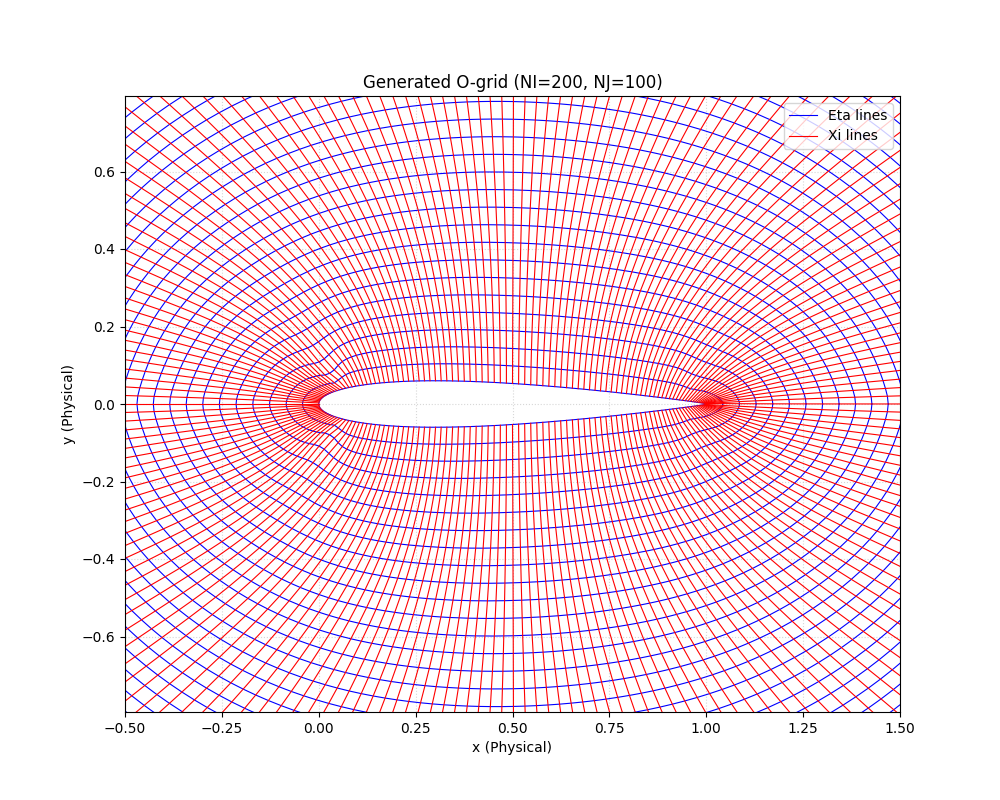
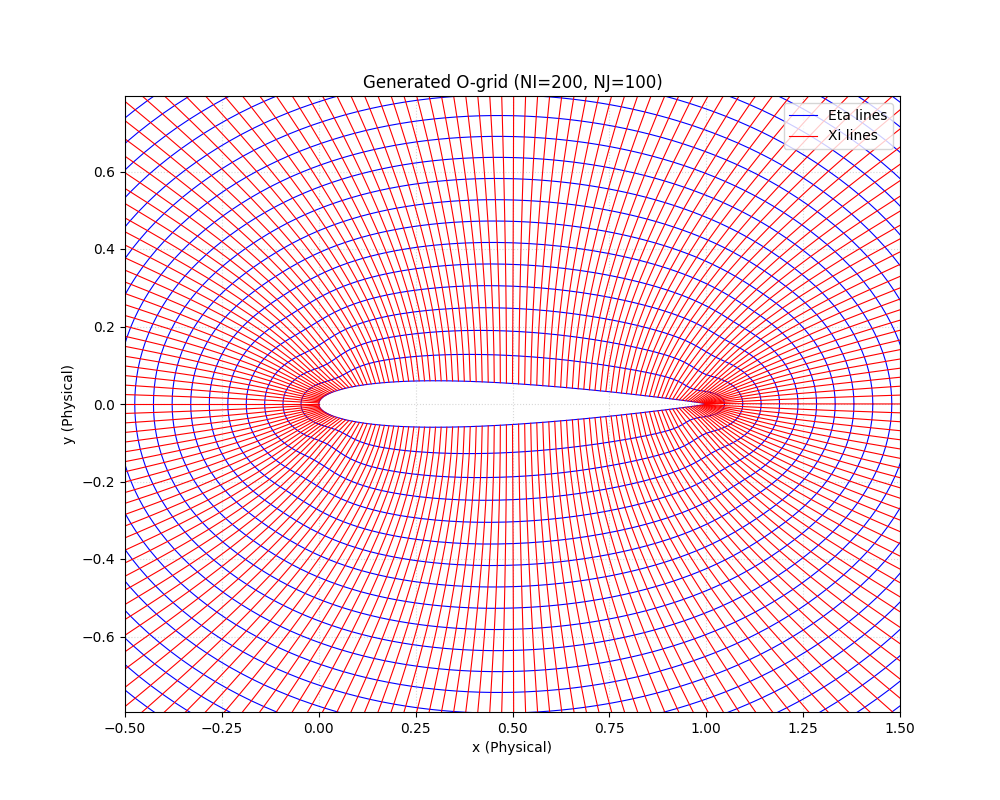
normal orthogonality prart done, tuning left.

Changed region(s): [[0.124, 0.125, 0.899, 0.9062]]

diff --git a/Mesh_generation.py b/Mesh_generation.py
@@ -60,6 +60,9 @@ class OGridLaplaceGenerator:
         self.xi_y = None
         self.eta_x = None
         self.eta_y = None
+        
+        self.nx = None
+        self.ny = None
         # For O-grids, xi represents angular-like coordinate
         # Common normalization ranges from 0 to almost 1 (or 2*pi)
         self.xi_comp = self.xi / NI
@@ -270,7 +273,8 @@ class OGridLaplaceGenerator:
         main_loop(x, y, x_xi, y_xi, x_eta, y_eta, J_jacobian)
     
     def solve_laplace_equations_with_source(self, max_iterations=10000, tolerance=1e-6,
-                                            alpha = 0.5, intn_lft=-150, intn_rgt=-150, rad_l=0.5, rad_r=0.5,
+                                            alpha = 0.5, intn_lft=-150, intn_rgt=-150, intn_norm=150,
+                                            rad_l=0.5, rad_r=0.5, rad_norm=0.5,
                                             let_p=True, let_q=True, intn_wall=-150, rad_wall=0.5, wall=True):
         """
         Solve Laplace equations with source term.
@@ -297,14 +301,14 @@ class OGridLaplaceGenerator:
         def source(x, y, center_x, center_y, intensity, decay_radius, left=True):
             source_field = np.zeros_like(x)
             r_sq_max = decay_radius ** 2
-            sigma = decay_radius / 5
+            sigma = decay_radius / 3
             for i in prange(NI):
                 for j in prange(NJ):
                     dx = x[i, j] - center_x
                     dy = y[i, j] - center_y
                     r_sq = dx**2 + dy**2
-                    if r_sq < r_sq_max:
-                        source_field[i, j] = intensity * np.exp(-r_sq / (2 * sigma**2)) * (r_sq / sigma ** 2)
+                    # if r_sq < r_sq_max:
+                    source_field[i, j] = intensity * np.exp(-r_sq / (2 * sigma**2)) # * (r_sq / sigma ** 2)
             
             dx_entire = x - center_x
             if left == True:
@@ -328,12 +332,84 @@ class OGridLaplaceGenerator:
                     dy = y[i, j] - y[i, 0]
                     dist_l = (x[i, j])**2 + y[i, j]**2
                     dist_r = (x[i, j] - 1)**2 + y[i, j]**2
-                    if ((dist_l > rad_l**2) and (dist_r > rad_r**2)):
-                        source_field[i, j] = intensity * np.exp(-dy ** 2 / (2 * sigma**2))
+                    # if ((dist_l > rad_l**2) and (dist_r > rad_r**2)):
+                    source_field[i, j] = intensity * np.exp(-dy ** 2 / (2 * sigma**2))
 
             if not wall:
                 source_field *= 0
             return source_field
+        
+        @jit
+        def source_boundary_normal(x, y, xb, yb, intensity, decay_radius, apply=True):
+            def compute_inner_boundary_normals(xb, yb):
+                """
+                given inner bound, return normals
+                """
+                NI = xb.shape[0]
+                tx = np.zeros(NI)
+                ty = np.zeros(NI)
+
+                # compute tangential vectors (central diff)
+                for i in range(1, NI - 1):
+                    dx = xb[i + 1] - xb[i - 1]
+                    dy = yb[i + 1] - yb[i - 1]
+                    norm = np.sqrt(dx**2 + dy**2) + 1e-14
+                    tx[i] = dx / (norm + 1e-20)
+                    ty[i] = dy / (norm + 1e-20)
+
+                # (former and backwards diff at bd)
+                dx = xb[1] - xb[0]
+                dy = yb[1] - yb[0]
+                norm = np.sqrt(dx**2 + dy**2) + 1e-14
+                tx[0] = dx / (norm + 1e-20)
+                ty[0] = dy / (norm + 1e-20)
+
+                dx = xb[-1] - xb[-2]
+                dy = yb[-1] - yb[-2]
+                norm = np.sqrt(dx**2 + dy**2) + 1e-14
+                tx[-1] = dx / (norm + 1e-20)
+                ty[-1] = dy / (norm + 1e-20)
+
+                # normal [-ty, tx]
+                nx = -ty
+                ny = tx
+
+                return nx, ny
+            nx, ny = compute_inner_boundary_normals(x[:,0],y[:,0])
+            
+            source_field = np.zeros_like(x)
+            if not apply:
+                return source_field
+
+            sigma = decay_radius / 3
+            for i in prange(NI):
+                for j in prange(NJ):
+                    dx = x[i, j] - xb[i]
+                    dy = y[i, j] - yb[i]
+                    dn = dx * nx[i] + dy * ny[i]  # normal distance
+                    source_field[i, j] = intensity * np.exp(- (dn ** 2) / (2 * sigma ** 2))
+            
+            return source_field
+
+        @jit
+        def add_source(x, y, head, tail, intn_lft, intn_rgt, intn_norm, rad_l, rad_r, rad_norm, let_p=False, let_q=True):
+            if let_p:
+                P = source(x, y, head, 0, intn_lft, rad_l, left=None) +\
+                    source(x, y, tail, 0, intn_rgt, rad_r, left=None) +\
+                    source_wall(x, y, intn_wall, rad_wall, wall=wall) 
+                    # source_boundary_normal(x, y, x[:,0], y[:,0],
+                    #                        intn_norm, rad_norm)
+            else:
+                P = source(x, y, 0, 0, 0, 1)
+            if let_q:
+                Q = source(x, y, head, 0, intn_lft, rad_l, left=None) +\
+                    source(x, y, tail, 0, intn_rgt, rad_r, left=None) +\
+                    source_wall(x, y, 0, intn_wall, wall=wall) +\
+                    source_boundary_normal(x, y, x[:,0], y[:,0],
+                                           intn_norm, rad_norm)
+            else:
+                Q = source(x, y, 0, 0, 0, 1)
+            return P, Q
         
         # Jacobian iteration
         @jit
@@ -384,13 +460,16 @@ class OGridLaplaceGenerator:
         
         @jit
         def sub_loop(x, y, x_xi, y_xi, x_eta, y_eta, J_jacobian, max_iterations_, tolerance_,
-                     alpha=alpha, NI=NI, NJ=NJ, intn_lft=intn_lft, intn_rgt=intn_rgt, rad_l=rad_l, rad_r=rad_r,
+                     alpha=alpha, NI=NI, NJ=NJ,
+                     intn_lft=intn_lft, intn_rgt=intn_rgt, intn_norm=intn_norm,
+                     rad_l=rad_l, rad_r=rad_r, rad_norm=rad_norm,
                      let_p=let_p, let_q=let_q):
             # the transitioned indices
             xi_p1 = np.zeros((NI, NJ), dtype=np.int32)
             xi_m1 = np.zeros((NI, NJ), dtype=np.int32)
             P = np.zeros((NI, NJ), dtype=np.float64)[:, 1:-1]
             Q = np.zeros((NI, NJ), dtype=np.float64)[:, 1:-1]
+            head, tail = 0, 1
             # indices
             for j in prange(NJ):
                 for i in prange(NI):
@@ -411,19 +490,9 @@ class OGridLaplaceGenerator:
             y_xi_ = y_xi
             y_eta_ = y_eta
             Jacobian_ = J_jacobian
-            if let_p:
-                P = source(x, y, 0.05, 0, intn_lft, rad_l, left=True) +\
-                    source(x, y, 0.98, 0, intn_rgt, rad_r, left=False) +\
-                    source_wall(x, y, intn_wall, rad_wall, wall=wall)
-            else:
-                P = source(x, y, 0, 0, 0, 1)
-            if let_q:
-                Q = source(x, y, 0, 0, intn_lft, rad_l, left=True) +\
-                    source(x, y, 1, 0, intn_rgt, rad_r, left=False) +\
-                    source_wall(x, y, 0, 0.5, wall=wall)
-            else:
-                Q = source(x, y, 0, 0, 0, 1)
-                
+            
+            P, Q = add_source(x, y, head, tail, intn_lft, intn_rgt, intn_norm, rad_l, rad_r, rad_norm, let_p, let_q)
+            
             for iteration in prange(max_iterations_):
                 # values of last iteration
                 x_old_iter_ = x.copy()
@@ -487,18 +556,9 @@ class OGridLaplaceGenerator:
                 x = (alpha) * x_new + (1 - alpha) * x_old_iter_
                 y = (alpha) * y_new + (1 - alpha) * y_old_iter_
                 x_xi_, x_eta_, y_xi_, y_eta_, J_jacobian_ = comput_drv_phy_to_com_and_jcbn(x, y, J_jacobian)
-                if let_p:
-                    P = source(x, y, 0.05, 0, intn_lft, rad_l, left=None) +\
-                        source(x, y, 0.98, 0, intn_rgt, rad_r, left=None) +\
-                        source_wall(x, y, intn_wall, rad_wall, wall=wall)
-                else:
-                    P = source(x, y, 0, 0, 0, 1)
-                if let_q:        
-                    Q = source(x, y, 0, 0, intn_lft, rad_l, left=True) +\
-                        source(x, y, 1, 0, intn_rgt, rad_r, left=False) +\
-                        source_wall(x, y, intn_wall, rad_wall, wall=wall)
-                else:
-                    Q = source(x, y, 0, 0, 0, 1)
+                
+                P, Q = add_source(x, y, head, tail, intn_lft, intn_rgt, intn_norm, rad_l, rad_r, rad_norm, let_p, let_q)
+                
                 Jacobian_ = J_jacobian
                 
                 if current_max_diff > max_diff_iter:
@@ -674,9 +734,7 @@ class OGridLaplaceGenerator:
                 plt.savefig(f'{file_name}.png', dpi=600)
             else:
                 plt.savefig(f'{file_name}_finer.png')
-        # test
         
-
     def plot_computational_grid(self):
         """Plot grid in computational (xi,eta) plane"""
         if 'matplotlib' not in globals() and 'plt' not in globals():
@@ -760,16 +818,18 @@ if __name__ == '__main__':
     symmetric = True  # symmetric endpoint for inner boundary
     chord_length = 1.0  # chord length for NACA0012 airfoil
     radius = 5.0  # radius for outer circle boundary
-    source_intensity_left = -5000  # source intensity for Laplace solver
-    source_intensity_right = -1000  # source intensity for Laplace solver
-    source_intensity_wall = 100  # source intensity for wall source
-    source_radius_left = 0.2  # source radius for Laplace solver
-    source_radius_right = 0.2  # source radius for Laplace solver
+    source_intensity_left = -8000  # source intensity for Laplace solver
+    source_intensity_right = -8000  # source intensity for Laplace solver
+    source_intensity_wall = -1  # source intensity for wall source
+    source_intensity_norm = 50 # source intensity for normal orthogonality
+    source_radius_left = 0.15  # source radius for Laplace solver
+    source_radius_right = 0.1  # source radius for Laplace solver
     source_radius_wall = 0.1  # source radius for wall source
+    source_radius_norm = 4  # source radius for normal orthogonality
     let_p = False
     let_q = True
     wall = True  # wall source
-    max_iterations = 2000  # max iterations for Laplace solver
+    max_iterations = 800  # max iterations for Laplace solver
     compute = True  # compute the grid or not
     tuning = not compute  # tuning the grid or not
     with_source = True
@@ -812,8 +872,10 @@ if __name__ == '__main__':
                                                         alpha=alpha,
                                                         intn_lft=source_intensity_left,
                                                         intn_rgt=source_intensity_right,
+                                                        intn_norm=source_intensity_norm,
                                                         rad_l=source_radius_left,
                                                         rad_r=source_radius_right,
+                                                        rad_norm=source_radius_norm,
                                                         let_p=let_p,
                                                         let_q=let_q,
                                                         intn_wall=source_intensity_wall,
